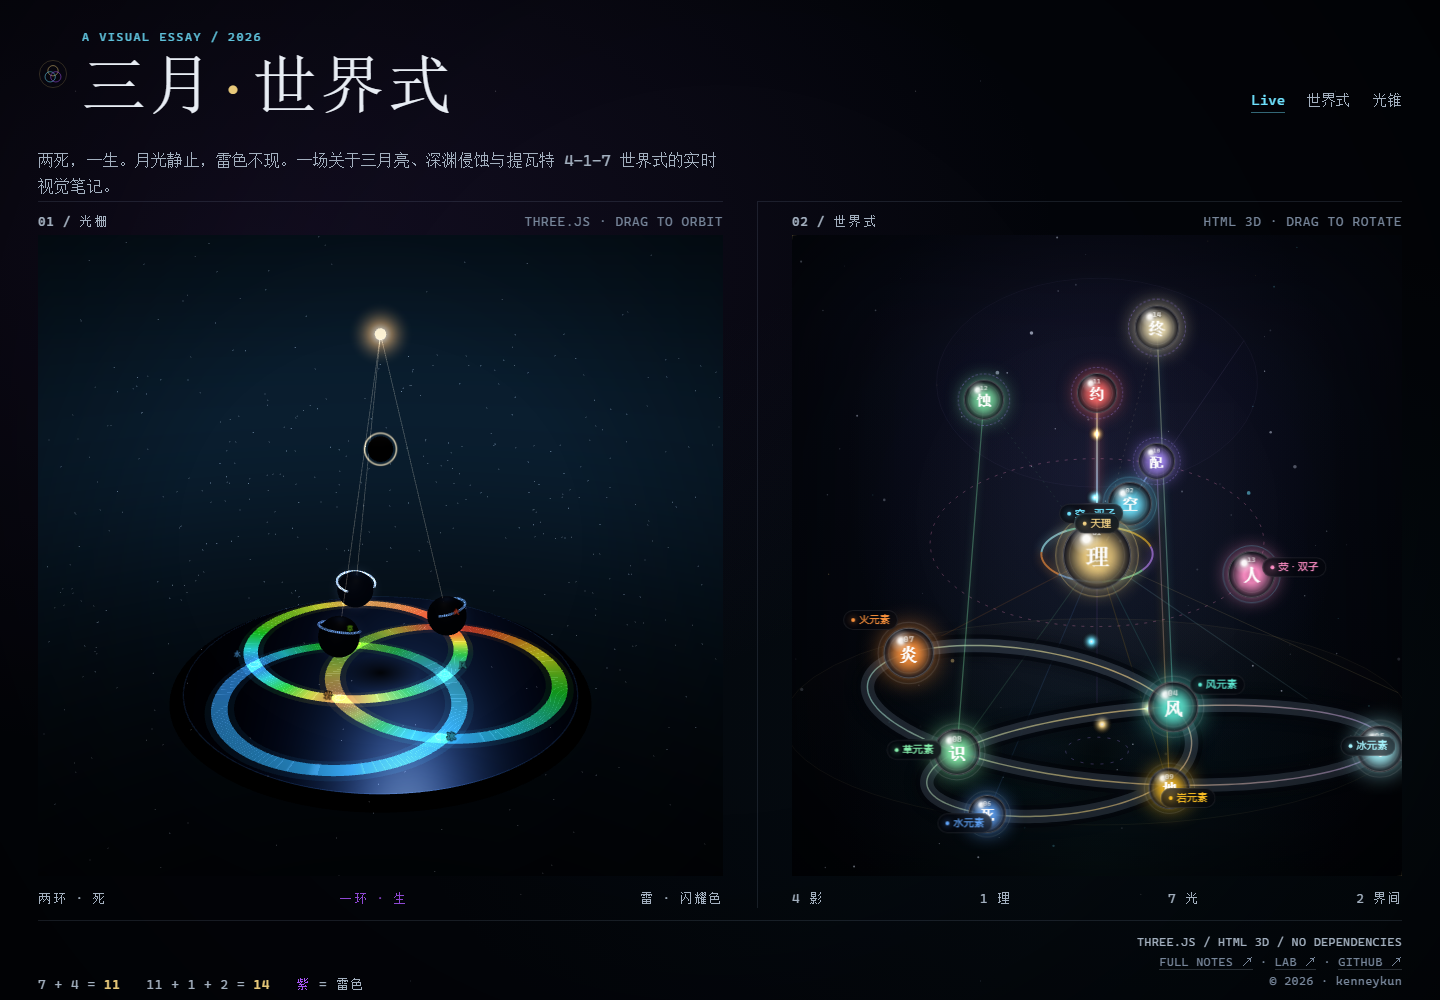
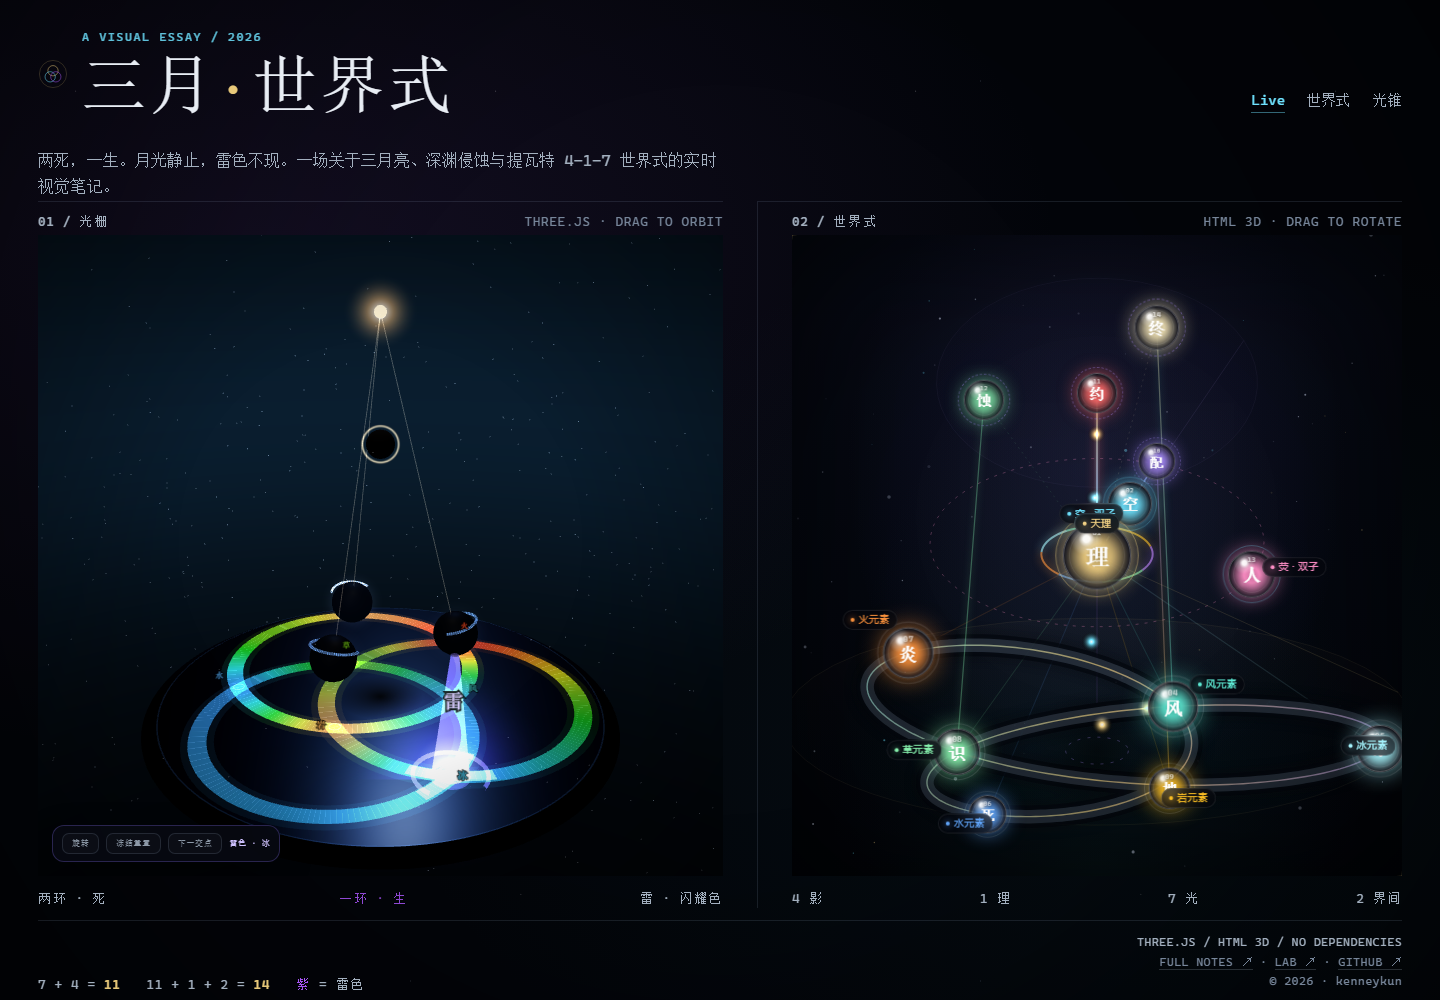
Expose the freeze controls in embed mode and make the blaze legible
The landing page iframe runs in ?visual=1, where the whole parameter panel is hidden, so the freeze/rotate buttons never showed up there. The controls now sit at the top of the lab panel and a compact bar (rotate / freeze reset / next intersection / current thunder) is pinned to the bottom-left corner of embed mode.

The thunder itself was a thin faint cone: at hero scale it read as a barely visible sliver. It is now a violet beam (0.19 base radius, 1.5 tall), a wider halo, a larger spark arc and a wider lit arc on both rings, all still driven by the same 12 degree mask. A ?blaze=NNN URL parameter pins the grating angle so states are linkable and reproducible.

diff --git a/docs/prism_three_planb.html b/docs/prism_three_planb.html
@@ -241,10 +241,23 @@
   .hud.on b{color:#cfc2ff;text-shadow:0 0 20px rgba(123,102,226,.8)}
   html.embed .hud{display:none!important}
   .row .btn{white-space:nowrap}
+  .panel-head + .row{margin-bottom:9px}
+  .panel-head + .row + .row.utility{margin-bottom:11px}
   @media (max-width:760px){
     .hud{display:none}
   }
-</style>
+
+  /* 嵌入模式（站点首页 iframe）的常驻控制条 */
+  .embed-bar{display:none}
+  html.embed .embed-bar{
+    display:flex;align-items:center;gap:7px;position:fixed;left:14px;bottom:14px;z-index:6;
+    padding:7px 9px;border-radius:12px;border:1px solid rgba(123,102,226,.30);
+    background:rgba(8,11,20,.74);backdrop-filter:blur(12px);
+    box-shadow:0 10px 30px rgba(0,0,0,.35);
+  }
+  html.embed .embed-bar .btn{padding:5px 9px;font-size:8px;letter-spacing:.08em;border-radius:7px}
+  html.embed .embed-bar .state{font-size:8px;letter-spacing:.06em;color:var(--muted);white-space:nowrap}
+  html.embed .embed-bar .state.on{color:#cfc2ff}</style>
 <script>if (new URLSearchParams(location.search).has('visual')) document.documentElement.classList.add('embed');</script>
 </head>
 <body>
@@ -265,6 +278,15 @@
   <div class="panel-head">
     <span>GRATING CONTROLS</span><span class="live"><i></i>OPTIC</span>
     <button class="panel-close" id="panelClose" type="button" aria-label="收起参数">×</button>
+  </div>
+
+  <div class="row">
+    <button class="btn" id="toggleRun" type="button" aria-pressed="false" title="光栅静止时入射角不变，闪耀波长不扫动，雷色不现；转动时雷色依次扫过六个交点">旋转</button>
+    <button class="btn" id="freezeReset" type="button" title="冻结光栅并回到 240°：算出来的无雷态，活月相位回到最满">冻结重置</button>
+  </div>
+  <div class="row utility">
+    <button class="btn active" id="toggleEclipse" type="button" aria-pressed="true">日食</button>
+    <button class="btn" id="stepThunder" type="button" title="跳到下一个会点亮交点的光栅角">下一交点</button>
   </div>
 
   <label class="slider">
@@ -308,14 +330,6 @@
     <button class="btn" id="auto" type="button" aria-pressed="false">Auto orbit</button>
     <button class="btn" id="reset" type="button">Reset</button>
   </div>
-  <div class="row utility">
-    <button class="btn" id="toggleRun" type="button" aria-pressed="false" title="光栅静止时入射角不变，闪耀波长不扫动，雷色不现；转动时雷色依次扫过六个交点">旋转</button>
-    <button class="btn" id="freezeReset" type="button" title="冻结光栅并回到 240°：静算出的无雷态，活月相位回到最满">冻结重置</button>
-  </div>
-  <div class="row utility">
-    <button class="btn active" id="toggleEclipse" type="button" aria-pressed="true">日食</button>
-    <button class="btn" id="stepThunder" type="button" title="跳到下一个会点亮交点的光栅角">下一交点</button>
-  </div>
   <div class="checks">
     <label><input id="showLabels" type="checkbox" checked> 标签</label>
     <label><input id="showGrooves" type="checkbox" checked> 刻线</label>
@@ -328,6 +342,13 @@
   <span><i class="ecl"></i>日食阴影</span>
   <span><i></i>光栅刻线（径向）</span>
   <span><i class="th"></i>雷色闪耀</span>
+</div>
+
+<div class="embed-bar" id="embedBar">
+  <button class="btn" id="embedRun" type="button" aria-pressed="false">旋转</button>
+  <button class="btn" id="embedFreeze" type="button">冻结重置</button>
+  <button class="btn" id="embedStep" type="button">下一交点</button>
+  <span class="state" id="embedState">雷色 · 不现</span>
 </div>
 
 <div class="hud" id="hud" aria-live="polite">
@@ -4217,6 +4238,7 @@ window.M3 = {
   const QUERY = new URLSearchParams(location.search);
   const EMBED = QUERY.has('visual');
   const STILL = QUERY.has('still');      // 预览截图用：嵌入模式也不自动转动
+  const BLAZE_PARAM = Number(QUERY.get('blaze'));   // ?blaze=270 直接把光栅钉在某个角度
 
   const TAU = Math.PI * 2;
   const DEG = Math.PI / 180;
@@ -4427,6 +4449,10 @@ window.M3 = {
   const eclipseBtn = document.getElementById('toggleEclipse');
   const freezeBtn = document.getElementById('freezeReset');
   const stepBtn = document.getElementById('stepThunder');
+  const embedRunBtn = document.getElementById('embedRun');
+  const embedFreezeBtn = document.getElementById('embedFreeze');
+  const embedStepBtn = document.getElementById('embedStep');
+  const embedStateEl = document.getElementById('embedState');
   const labelsCheck = document.getElementById('showLabels');
   const groovesCheck = document.getElementById('showGrooves');
   const panelEl = document.querySelector('.panel');
@@ -4477,6 +4503,11 @@ window.M3 = {
     controls.minPolarAngle = 0.06;
     controls.maxPolarAngle = Math.PI * 0.96;
     controls.autoRotateSpeed = 0.55;
+    if (EMBED) {
+      // 站点首页的小画框：稍微拉近，避免底片显得太小
+      camera.position.set(6.3, 4.5, 8.7);
+      controls.target.set(0, 0.5, 0);
+    }
     controls.update();
   } catch (err) {
     showFallback(err);
@@ -4797,7 +4828,7 @@ window.M3 = {
   function buildBlazeArc(node, key) {
     const ring = ringByKey(key);
     const phi = nodeRingAngle(node, key);
-    const half = 0.19;
+    const half = 0.30;
     const geo = new M.RingGeometry(RING_R - 0.105, RING_R + 0.105, 36, 1, -phi - half, half * 2);
     const mat = new M.MeshBasicMaterial({
       color: new M.Color(palette().thunderGlow),
@@ -4843,14 +4874,14 @@ window.M3 = {
       labelGroup.add(label);
 
       const column = new M.Mesh(
-        new M.CylinderGeometry(0.018, 0.13, 1.15, 18, 1, true),
+        new M.CylinderGeometry(0.035, 0.19, 1.5, 22, 1, true),
         new M.MeshBasicMaterial({
           color: new M.Color(palette().thunderGlow),
           transparent: true, opacity: 0, blending: M.AdditiveBlending,
           depthWrite: false, side: M.DoubleSide, toneMapped: false,
         })
       );
-      column.position.set(node.x, PLANE_Y + 0.58, node.z);
+      column.position.set(node.x, PLANE_Y + 0.78, node.z);
       thunderGroup.add(column);
 
       const halo = glowSprite(palette().thunderGlow, 1.0, 0);
@@ -4859,7 +4890,7 @@ window.M3 = {
 
       // 闪耀火花弧：围绕交点的一小段弧
       const spark = new M.Mesh(
-        new M.TorusGeometry(0.17, 0.010, 8, 40, Math.PI * 1.5),
+        new M.TorusGeometry(0.26, 0.016, 8, 44, Math.PI * 1.5),
         new M.MeshBasicMaterial({
           color: new M.Color(palette().thunderGlow),
           transparent: true, opacity: 0, blending: M.AdditiveBlending,
@@ -5026,16 +5057,16 @@ window.M3 = {
       view.marker.material.opacity = 0.85 + mask * 0.15;
       view.marker.scale.setScalar(1 + mask * 1.1);
 
-      view.column.material.color.copy(glowColor);
-      view.column.material.opacity = mask * 0.8;
-      view.column.scale.set(1 + mask * 0.4, 0.4 + mask * 0.75, 1 + mask * 0.4);
+      view.column.material.color.copy(thunderColor);
+      view.column.material.opacity = mask * 0.5;
+      view.column.scale.set(1 + mask * 0.5, 0.45 + mask * 0.9, 1 + mask * 0.5);
 
-      view.halo.material.opacity = mask * 1.0;
-      view.halo.scale.setScalar(1.0 + mask * 1.15);
+      view.halo.material.opacity = mask * 0.72;
+      view.halo.scale.setScalar(1.1 + mask * 1.6);
 
-      view.arclets.forEach((arc) => { arc.material.opacity = mask * 0.55; });
-      view.spark.material.opacity = mask * 0.9;
-      view.spark.scale.setScalar(1 + mask * 0.5);
+      view.arclets.forEach((arc) => { arc.material.opacity = mask * 0.85; });
+      view.spark.material.opacity = mask * 0.7;
+      view.spark.scale.setScalar(1 + mask * 0.9);
       view.thunderLabel.visible = mask > 0.05;
 
       if (mask > activeMask) {
@@ -5045,6 +5076,10 @@ window.M3 = {
     });
 
     if (hudEl) hudEl.classList.toggle('on', activeMask > 0.05);
+    if (embedStateEl) {
+      embedStateEl.textContent = activeMask > 0.05 ? `雷色 · ${active.name}` : '雷色 · 不现';
+      embedStateEl.classList.toggle('on', activeMask > 0.05);
+    }
     if (hudStateEl) {
       hudStateEl.textContent = activeMask > 0.05
         ? `雷色 · ${active.name}（${active.rings}）`
@@ -5132,9 +5167,12 @@ window.M3 = {
 
   function setRunning(run) {
     state.running = run;
-    runBtn.textContent = run ? '冻结' : '旋转';
-    runBtn.classList.toggle('active', run);
-    runBtn.setAttribute('aria-pressed', String(run));
+    [runBtn, embedRunBtn].forEach((btn) => {
+      if (!btn) return;
+      btn.textContent = run ? '冻结' : '旋转';
+      btn.classList.toggle('active', run);
+      btn.setAttribute('aria-pressed', String(run));
+    });
   }
 
   function setEclipseVisible(show) {
@@ -5201,16 +5239,19 @@ window.M3 = {
     syncGrating();
   }
   freezeBtn.addEventListener('click', freezeToCalmState);
+  if (embedFreezeBtn) embedFreezeBtn.addEventListener('click', freezeToCalmState);
 
   // 下一交点：跳到下一个交点正对窗口的光栅角（演示用）
   let stepCursor = -1;
-  stepBtn.addEventListener('click', () => {
+  function goNextBlaze() {
     setRunning(false);
     stepCursor = (stepCursor + 1) % NODES.length;
     const target = ((NODES[stepCursor].angle % 360) + 360) % 360;
     gratingInput.value = String(target);
     syncGrating();
-  });
+  }
+  stepBtn.addEventListener('click', goNextBlaze);
+  if (embedStepBtn) embedStepBtn.addEventListener('click', goNextBlaze);
   eclipseBtn.addEventListener('click', () => setEclipseVisible(!state.showEclipse));
   labelsCheck.addEventListener('change', () => {
     state.showLabels = labelsCheck.checked;
@@ -5228,6 +5269,9 @@ window.M3 = {
     renderer.setSize(window.innerWidth, window.innerHeight);
   });
 
+  if (QUERY.has('blaze') && Number.isFinite(BLAZE_PARAM)) {
+    gratingInput.value = String(((BLAZE_PARAM % 360) + 360) % 360);
+  }
   setRunning(state.running);
   syncSun();
   syncEclipse();

diff --git a/docs/index.html b/docs/index.html
@@ -179,7 +179,7 @@
     <section class="figure">
       <div class="fig-head"><b>01 / 光栅</b><span>Three.js · drag to orbit</span></div>
       <div class="frame-wrap">
-        <iframe src="prism_three_planb.html?visual=1&v=grating2" title="Three.js 光栅分光：天理点光源、日食遮挡与三面弧面光栅" loading="eager" scrolling="no"></iframe>
+        <iframe src="prism_three_planb.html?visual=1&v=grating3" title="Three.js 光栅分光：天理点光源、日食遮挡与三面弧面光栅" loading="eager" scrolling="no"></iframe>
       </div>
       <div class="fig-foot">
         <span>两环 · 死</span>
@@ -191,7 +191,7 @@
     <section class="figure tree">
       <div class="fig-head"><b>02 / 世界式</b><span>HTML 3D · drag to rotate</span></div>
       <div class="frame-wrap">
-        <iframe src="world_formula.html?embed=1&v=grating2" title="世界式十四节点立体图" loading="eager" scrolling="no"></iframe>
+        <iframe src="world_formula.html?embed=1&v=grating3" title="世界式十四节点立体图" loading="eager" scrolling="no"></iframe>
       </div>
       <div class="fig-foot">
         <span>4 影</span>

diff --git a/README.md b/README.md
@@ -421,6 +421,8 @@ float thunderMask = 1.0 - smoothstep(thunderHalfWidth * 0.6, thunderHalfWidth, a
 
 默认状态是**冻结在 240°**，所以加载时没有雷，HUD 显示“雷色 · 不现”，并给出当前活月相位（240° 时为 1.00）。点“旋转”后，雷色会依次扫过六个交点（10°/s，一圈 36 s）；任何时候点“冻结重置”都会回到那个特定的无雷解。
 
+站点首页里那颗 iframe 是嵌入模式（`?visual=1`），整套参数面板会被隐藏；为此嵌入模式自带一条常驻控制条（左下角：旋转 / 冻结重置 / 下一交点 / 当前雷色）。地址栏也可以直接钉住角度：`?blaze=30` 让雷落在冰交点，`?still=1` 冻结运动，`?visual=1` 进入无面板的嵌入模式。
+
 ### 右侧：世界式十四节点图（`docs/world_formula.html`）
 
 这张 HTML 3D 图已经按新模型重绘：
